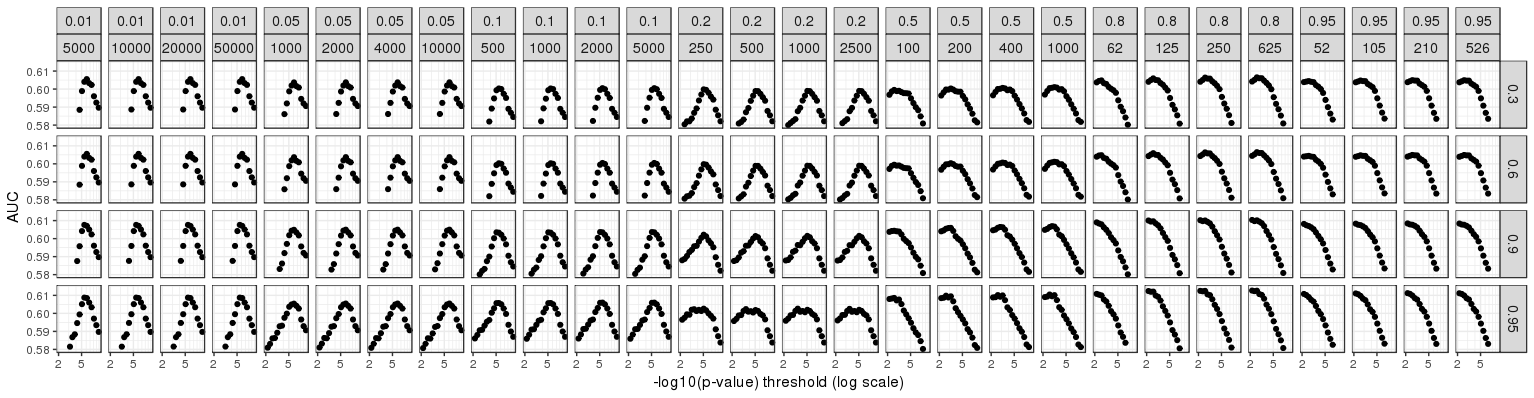
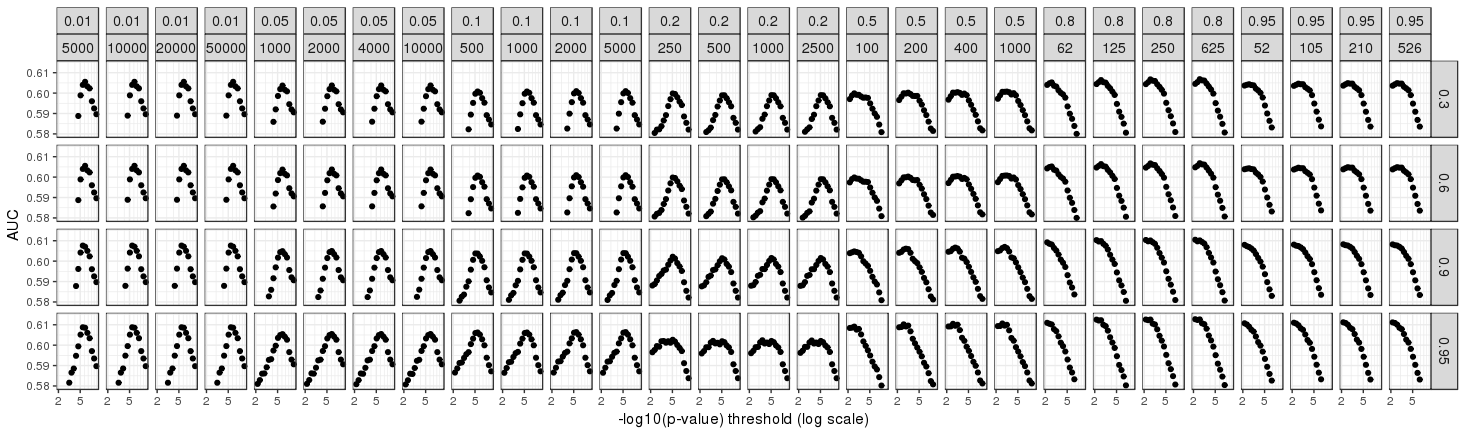
save T2D

Changed region(s): [[0.0, 0.0, 1.0, 0.995]]

diff --git a/paper3-SCT/SCT.tex b/paper3-SCT/SCT.tex
@@ -237,7 +237,7 @@ For all 8 diseases, predictions were optimized when choosing a threshold on impu
 \end{figure}
 
 Furthermore, SCT outforms maxCT for all 8 diseases consireded with an additional mean absolute increase of AUC of 2.2\%, making it 3.5\% as compared to stdCT (Figure \ref{fig:AUC-real} and table \ref{tab:AUC}).
-Predictive performance improvement of SCT versus maxCT is particularly notable for coronary artery disease (2.8\%), type 2 diabetes (3.1\% [TODO: VERIF]) and asthma (3.4\%).
+Predictive performance improvement of SCT versus maxCT is particularly notable for coronary artery disease (2.8\%), type 2 diabetes (3.1\%) and asthma (3.4\%).
 
 Effects resulting from SCT have mostly the same sign as initial effects from GWAS, with few effects being largely unchanged, and others having an effect that is shrunk to 0 or equals to 0, i.e.\ variants not included in the final model (Figure \ref{fig:neweffreal}).
 
@@ -356,8 +356,8 @@ Rheumatoid arthritis (RA) & 59.8 [57.7-61.8] & 60.3 [58.3-62.4] & 61.3 [59.1-63.
  & 12,220 & 88,556 & 317,456 \\
 Type 1 diabetes (T1D) & 75.4 [72.4-78.4] & 76.9 [73.9-79.7] & 78.7 [75.7-81.7] \\
  & 1112 & 267 & 135,991 \\
-Type 2 diabetes (T2D) & 60.2 [59.5-60.8] & 61.4 [60.8-62.0] &  \\
- & 251 & 33,223 & 458,080 \\
+Type 2 diabetes (T2D) & 59.1 [58.1-60.1] & 60.7 [59.8-61.7] & 63.8 [62.9-64.7] \\
+ & 177 & 33,235 & 548,343 \\
 Prostate cancer (PRCA) & 68.0 [66.5-69.5] & 69.3 [67.8-70.8] & 71.7 [70.2-73.1] \\
  & 1035 & 356 & 696,575 \\
 Depression (MDD) & 55.7 [54.4-56.9] & 59.2 [58.0-60.4] & 59.5 [58.2-60.7] \\
